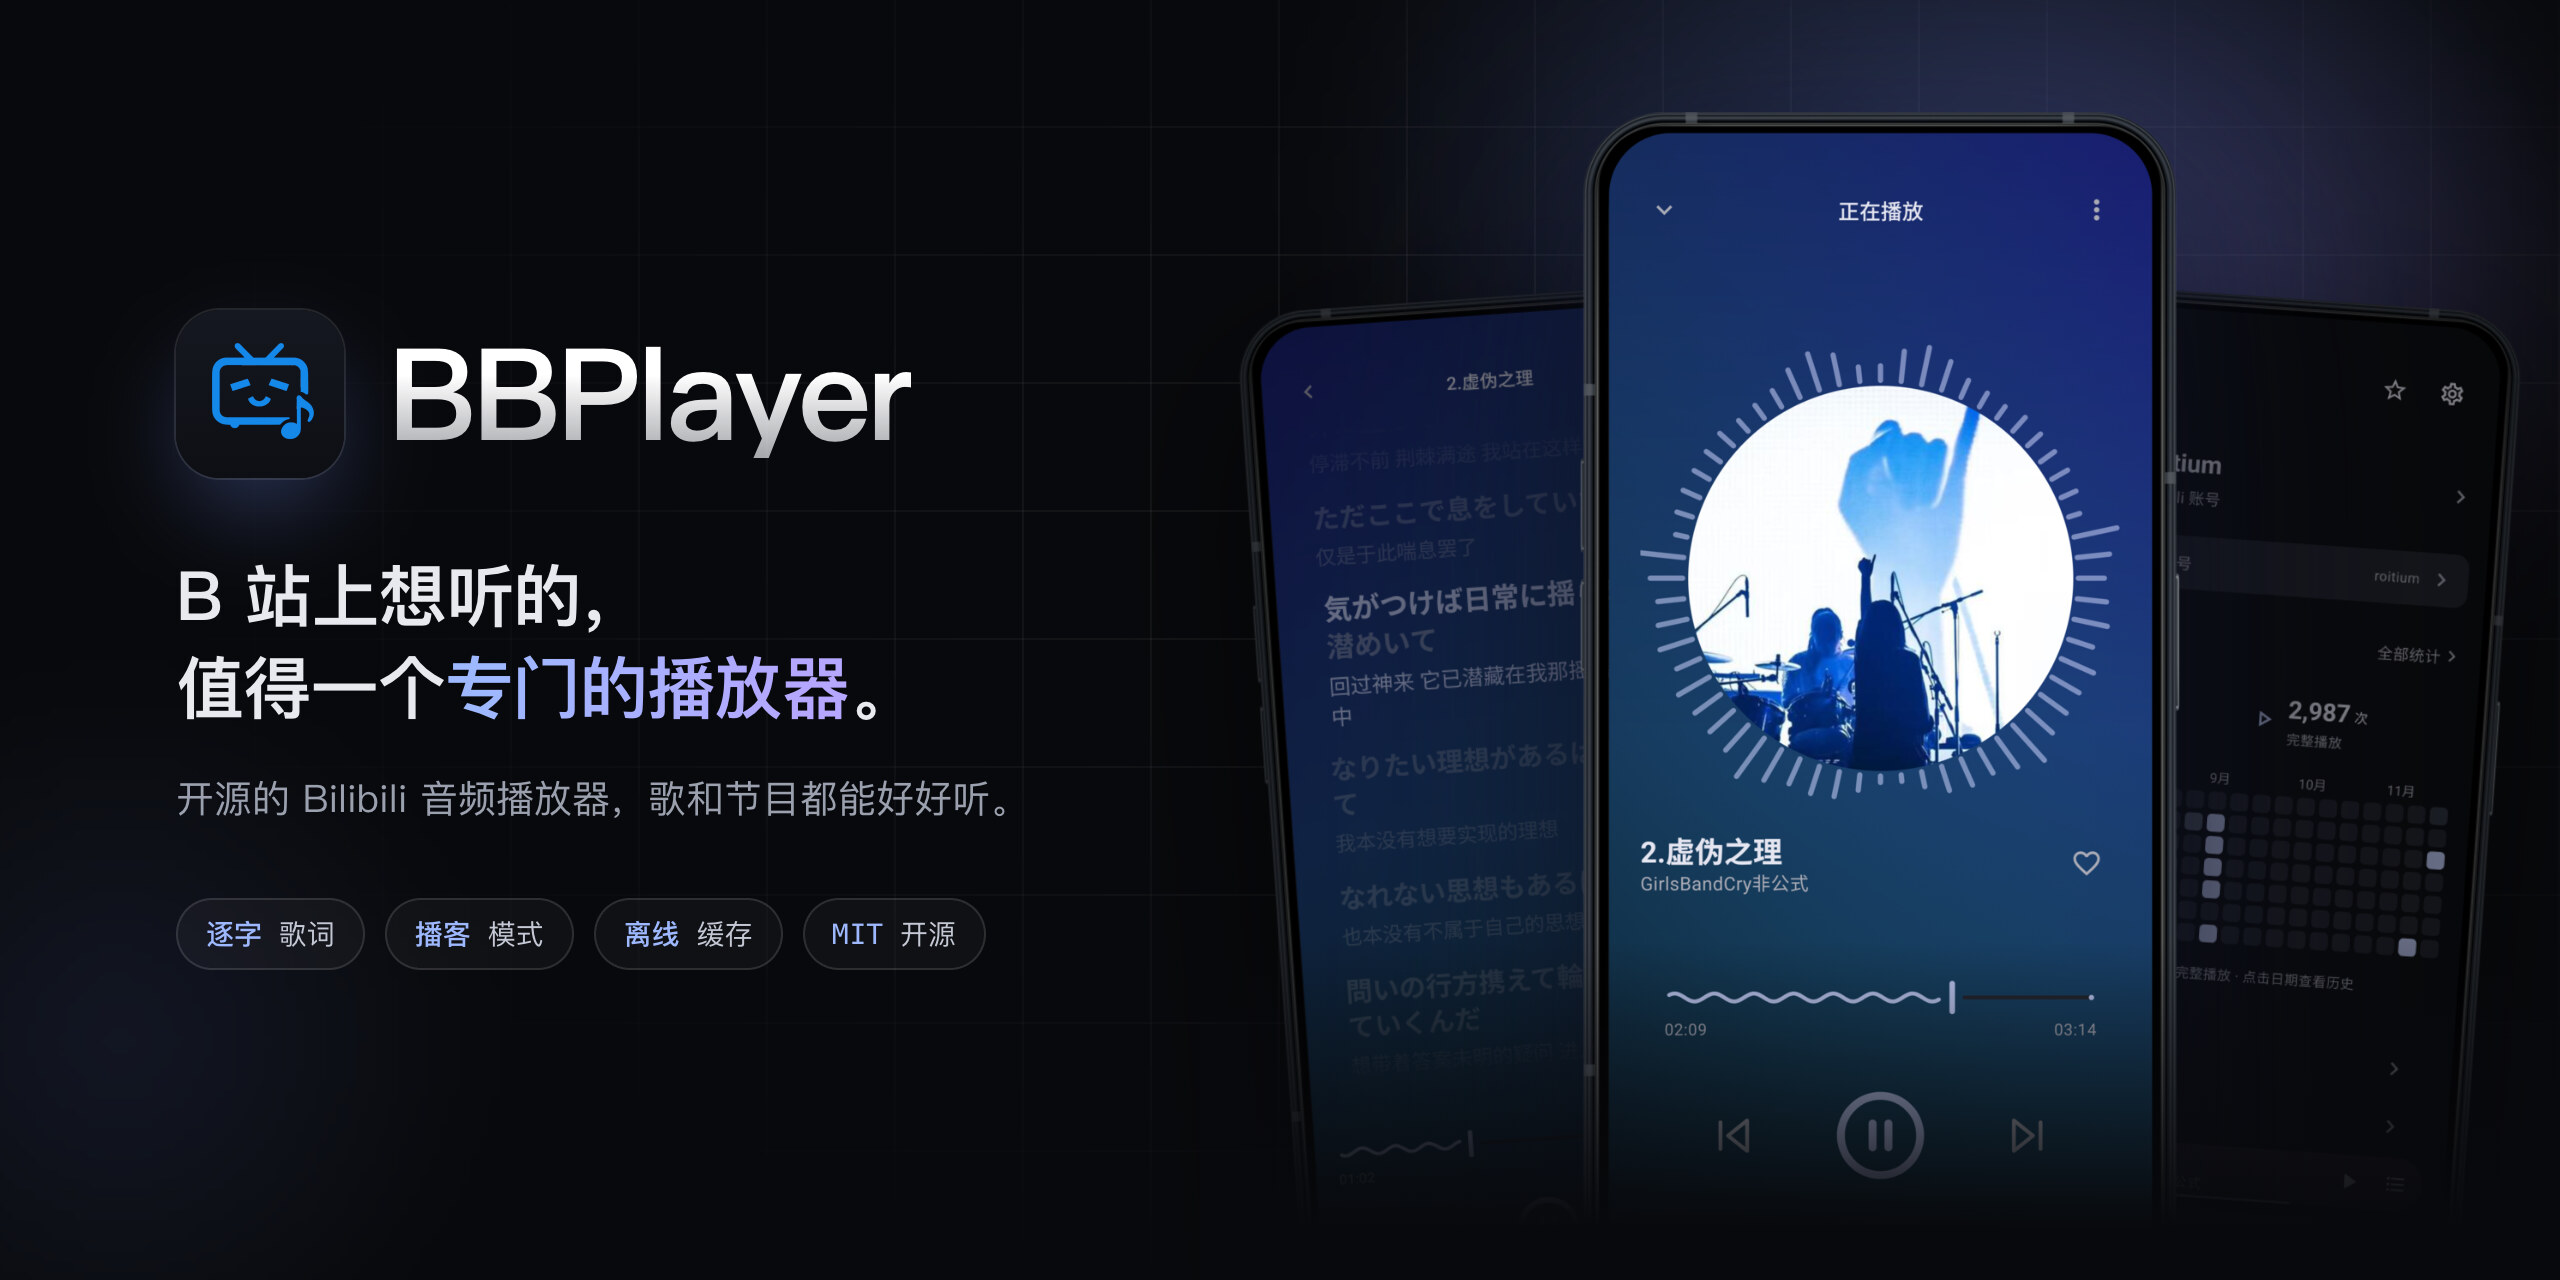
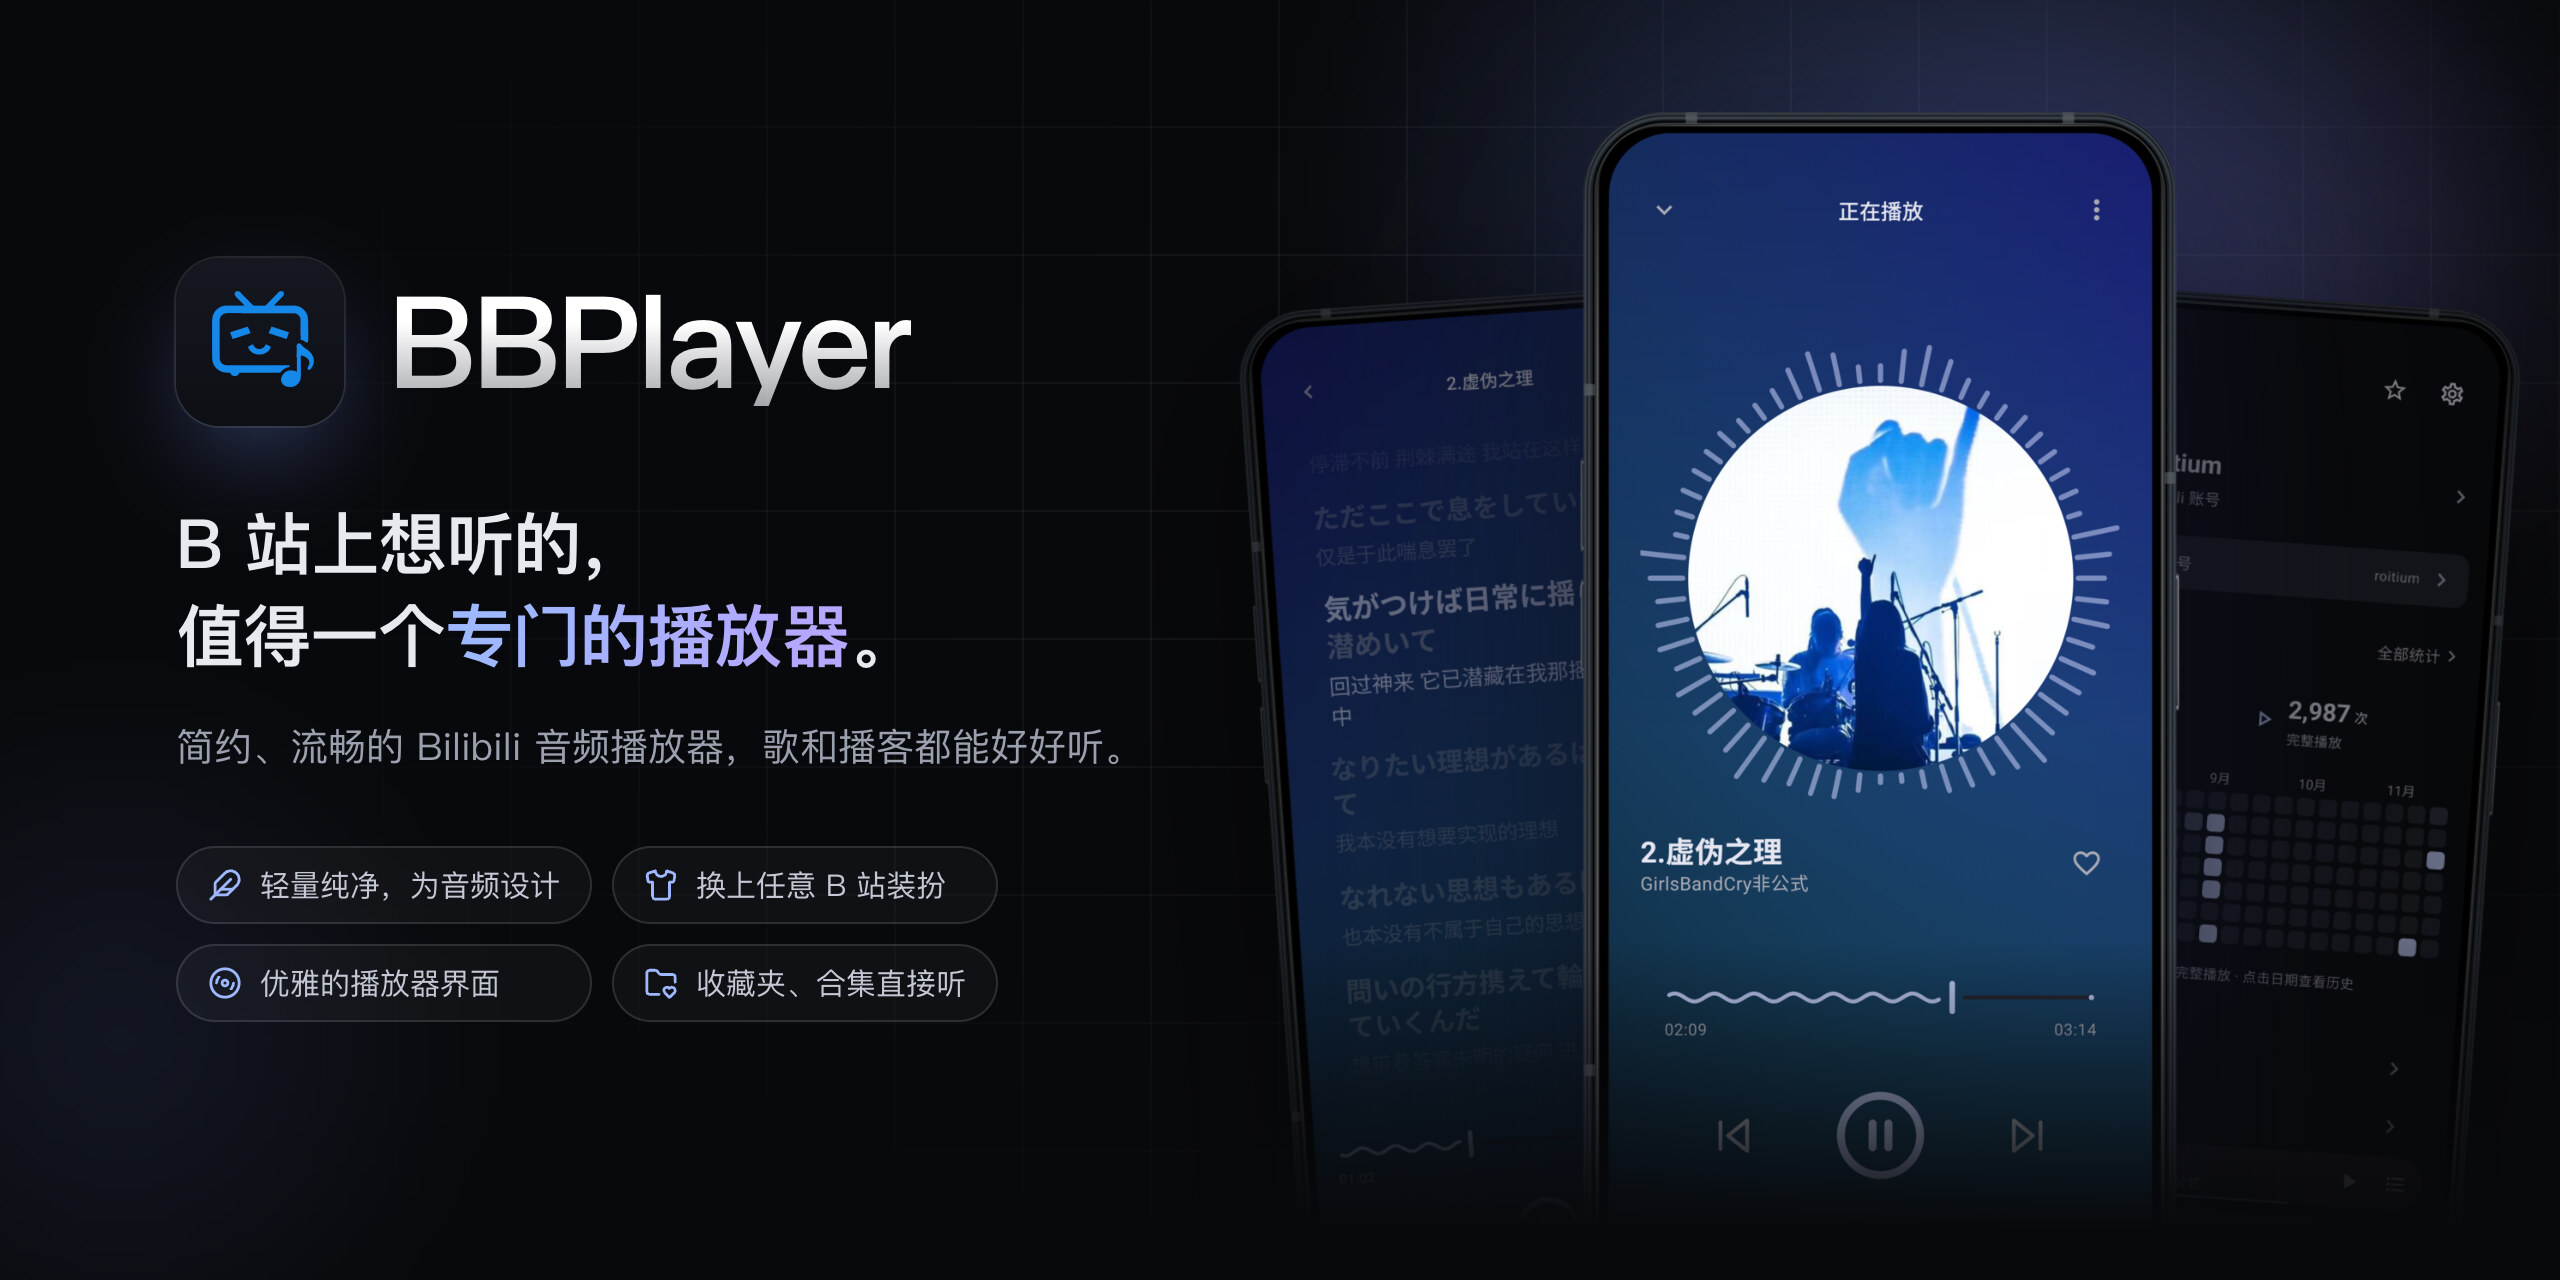
root: 更新 README 头图标签并改用 slogan 作副标题

Changed region(s): [[0.0625, 0.2188, 0.4375, 0.7812], [0.1562, 0.2188, 0.375, 0.3438]]

diff --git a/README.md b/README.md
@@ -4,8 +4,7 @@
 
 <h1>BBPlayer</h1>
 
-逐字歌词、封面取色的播放器、系统级歌词，<br />
-听长节目时还有记得进度、能跟着字幕读的播客模式。
+**B 站上想听的，值得一个专门的播放器。**
 
 [![Release](https://img.shields.io/github/v/release/bbplayer-app/BBPlayer?style=flat-square&label=%E6%9C%80%E6%96%B0%E7%89%88%E6%9C%AC&color=9db8ff)](https://github.com/bbplayer-app/BBPlayer/releases/latest)
 [![Downloads](https://img.shields.io/github/downloads/bbplayer-app/BBPlayer/total?style=flat-square&label=%E4%B8%8B%E8%BD%BD%E9%87%8F&color=b5a6ff)](https://github.com/bbplayer-app/BBPlayer/releases)
